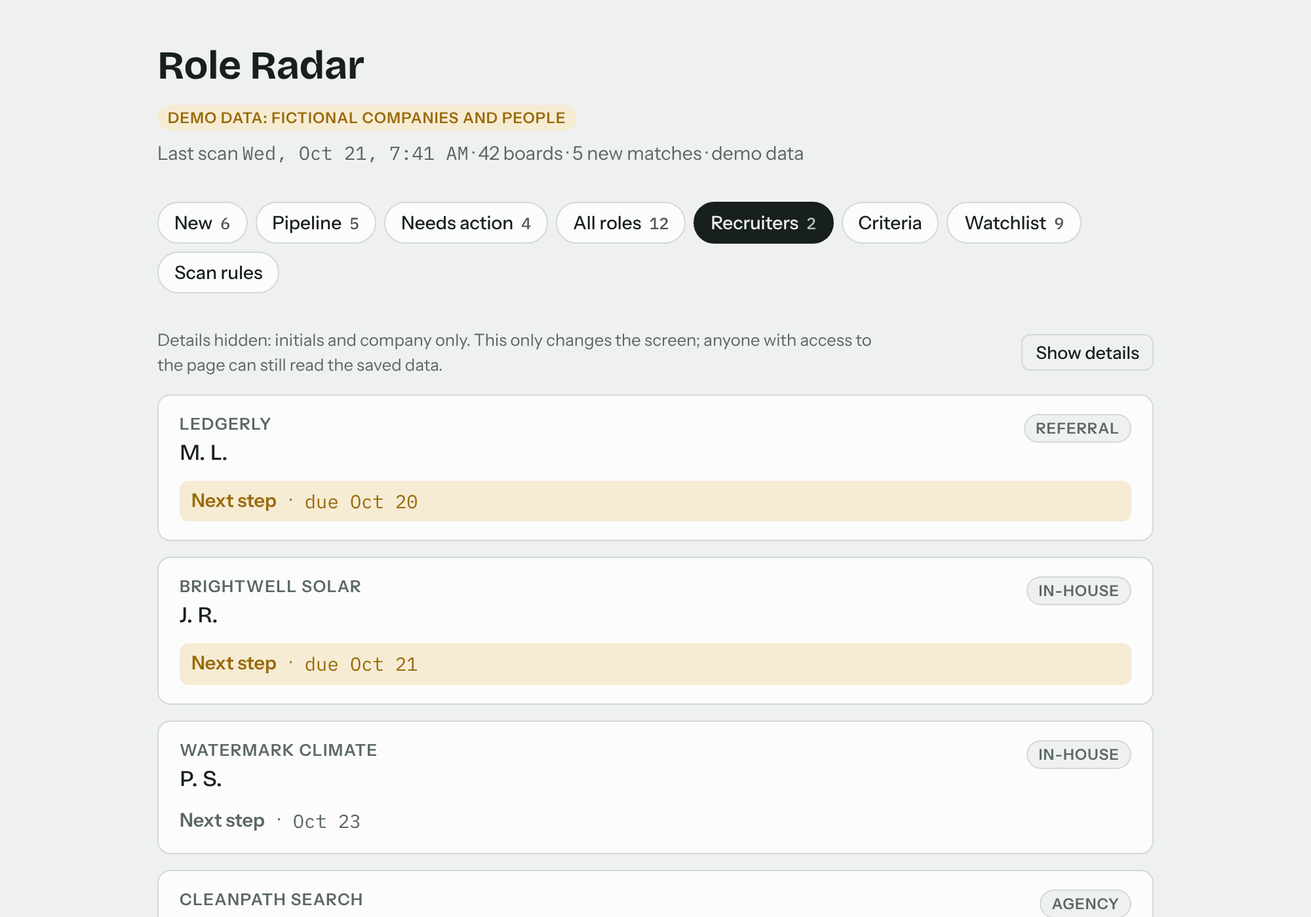
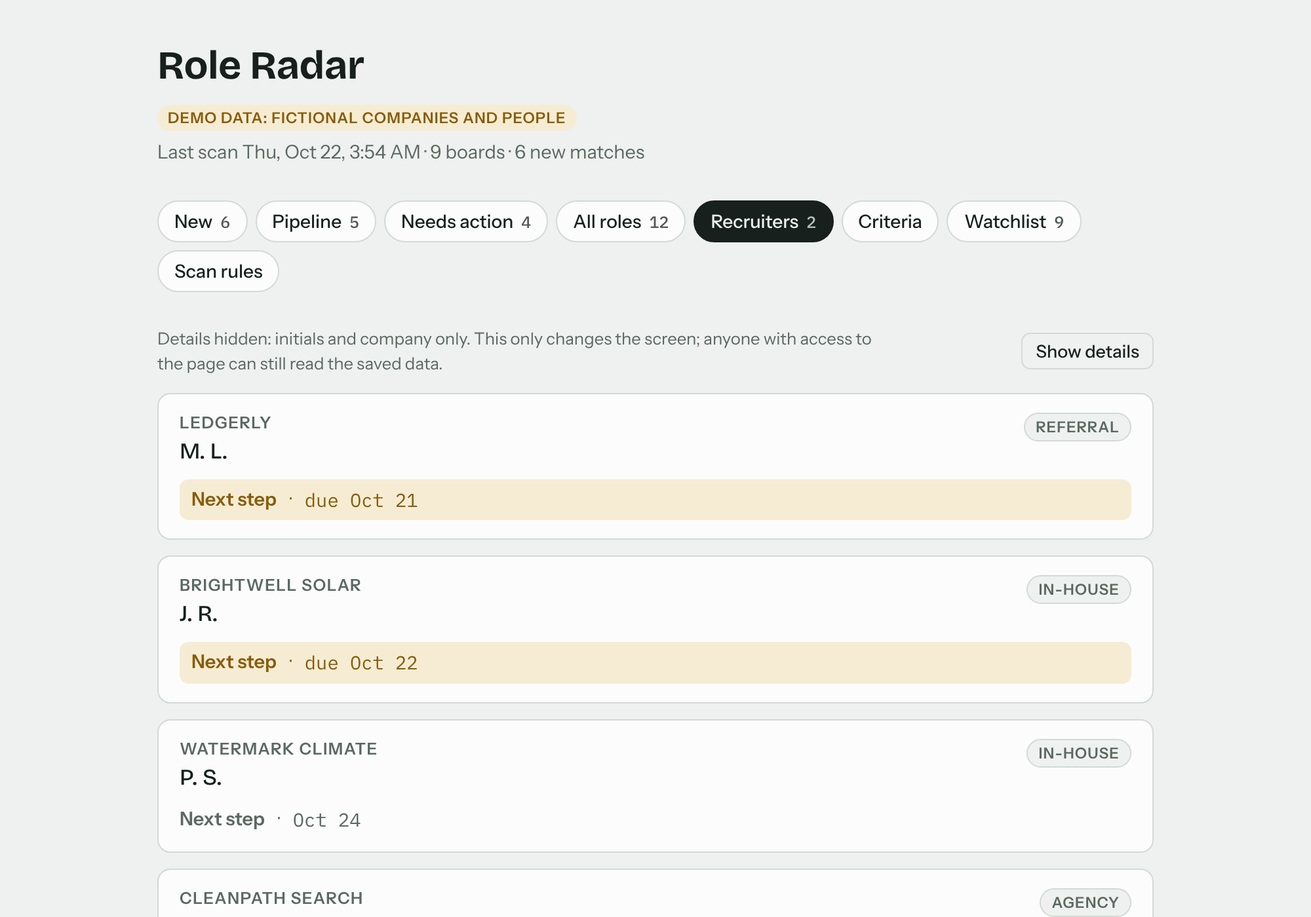
Recruiter-ready P2 polish: plain labels, folded filters, landmarks, inlined js-yaml, README
RR-P2-2 to RR-P2-9; README screenshots regenerated.

Claude-Session: https://claude.ai/code/session_01C9o7XbtX1RqBYGxEu4hpN9

diff --git a/app/role-radar.html b/app/role-radar.html
@@ -26,10 +26,10 @@ header{display:grid;gap:6px}
 h1{font-family:var(--f-display);font-weight:700;font-size:1.9rem;letter-spacing:-.01em;margin:0;text-wrap:balance}
 .sub{color:var(--muted);font-size:.9rem;margin:0}
 .mono{font-family:var(--f-mono);font-variant-numeric:tabular-nums}
-nav{display:flex;gap:6px;flex-wrap:wrap;position:sticky;top:env(safe-area-inset-top,0px);background:var(--bg);padding-block:8px;z-index:2}
-nav button{font:500 .88rem var(--f-body);border:1px solid var(--line);background:var(--surface);color:var(--ink);border-radius:999px;padding:6px 12px;cursor:pointer;display:flex;gap:6px;align-items:center}
-nav button[aria-selected="true"]{background:var(--ink);color:var(--bg);border-color:var(--ink)}
-nav .n{font-family:var(--f-mono);font-size:.78rem;opacity:.75}
+#tabs{display:flex;gap:6px;flex-wrap:wrap;position:sticky;top:env(safe-area-inset-top,0px);background:var(--bg);padding-block:8px;z-index:2}
+#tabs button{font:500 .88rem var(--f-body);border:1px solid var(--line);background:var(--surface);color:var(--ink);border-radius:999px;padding:6px 12px;cursor:pointer;display:flex;gap:6px;align-items:center}
+#tabs button[aria-selected="true"]{background:var(--ink);color:var(--bg);border-color:var(--ink)}
+#tabs .n{font-family:var(--f-mono);font-size:.78rem;opacity:.75}
 button:focus-visible,input:focus-visible,select:focus-visible,textarea:focus-visible,a:focus-visible{outline:2px solid var(--accent);outline-offset:2px}
 .list{display:grid;gap:12px}
 .job{background:var(--surface);border:1px solid var(--line);border-radius:10px;padding:14px 16px;display:grid;gap:8px;min-width:0}
@@ -90,8 +90,9 @@ dialog .row2{display:flex;gap:8px;justify-content:flex-end;margin-top:10px;flex-
 .fbar .fields{grid-template-columns:repeat(auto-fit,minmax(130px,1fr))}
 #ftoggle{display:none}
 @media (max-width:600px){#ftoggle{display:inline-flex}.fbar:not(.open) .fields{display:none}}
+.showcase-mode #ftoggle{display:inline-flex}.showcase-mode .fbar:not(.open) .fields{display:none}
 /* Touch: every control at least 44px tall. */
-@media (max-width:600px), (pointer:coarse){nav button,.btn,button,select,input:not([type=checkbox]):not([type=radio]){min-height:44px}a.btn{display:inline-flex;align-items:center}summary{padding-block:14px}}
+@media (max-width:600px), (pointer:coarse){#tabs button,.btn,button,select,input:not([type=checkbox]):not([type=radio]){min-height:44px}a.btn{display:inline-flex;align-items:center}summary{padding-block:14px}}
 .fbar .foot{display:flex;justify-content:space-between;align-items:center;gap:10px;flex-wrap:wrap;font-size:.82rem;color:var(--muted)}
 .linkbtn{font:500 .82rem var(--f-body);background:none;border:0;color:var(--accent);cursor:pointer;padding:0}
 .dates{display:flex;flex-wrap:wrap;gap:2px 12px;font-size:.8rem;color:var(--muted)}
@@ -116,7 +117,8 @@ details.more form{display:grid;gap:10px;padding-top:10px}
 .conflict{background:var(--warn-soft);color:var(--warn);border:1px solid var(--warn)}
 .crit{display:grid;gap:14px}
 .ccard{background:var(--surface);border:1px solid var(--line);border-radius:10px;padding:14px 16px;display:grid;gap:10px;min-width:0}
-.ccard h3{font-family:var(--f-display);font-weight:500;font-size:1.05rem;margin:0}
+.main{display:grid;gap:18px}
+.ccard h2{font-family:var(--f-display);font-weight:500;font-size:1.05rem;margin:0}
 .kv{display:grid;grid-template-columns:repeat(auto-fit,minmax(140px,1fr));gap:10px}
 .kv div{display:grid;gap:2px}.kv small{color:var(--muted);font-size:.78rem}.kv b{font-family:var(--f-mono);font-weight:500;font-size:.95rem}
 .sec{display:grid;grid-template-columns:minmax(0,1fr) auto;gap:4px 12px;align-items:center;padding:6px 0;border-bottom:1px solid var(--line)}
@@ -170,9 +172,11 @@ details.more form{display:grid;gap:10px;padding-top:10px}
     <p class="sub" id="scanLine">Remote Senior and Staff PM roles from company boards, ZipRecruiter, Himalayas and job alerts, checked every weekday morning.</p>
   </header>
 
-  <nav role="tablist" id="tabs"></nav>
+  <main class="main">
+  <div role="tablist" id="tabs" aria-label="Sections"></div>
 
   <section id="view" aria-live="polite"></section>
+  </main>
 </div>
 <div class="toast" id="toast" hidden></div>
 <dialog id="applyDlg" aria-labelledby="applyTitle">
@@ -273,7 +277,7 @@ function renderTabs(){
 function renderScan(){
   if(!scan){ $("#scanLine").textContent="Remote Senior and Staff PM roles from company boards, ZipRecruiter, Himalayas and job alerts, checked every weekday morning. No scan has run yet."; return;}
   const when=scan.lastRun?new Date(scan.lastRun).toLocaleString(undefined,{weekday:"short",month:"short",day:"numeric",hour:"numeric",minute:"2-digit"}):"";
-  $("#scanLine").innerHTML=`Last scan <span class="mono">${esc(when)}</span> · ${esc(scan.boardsChecked??"?")} boards · ${esc(scan.newMatches??0)} new matches${scan.note?` · ${esc(scan.note)}`:""}`;
+  $("#scanLine").innerHTML=`Last scan ${esc(when)} · ${esc(scan.boardsChecked??"?")} boards · ${esc(scan.newMatches??0)} new matches${scan.note?` · ${esc(scan.note)}`:""}`;
 }
 
 function datesLine(j){
@@ -283,7 +287,8 @@ function datesLine(j){
   if(j.viewedAt) p.push(`Viewed <b>${fmtDate(j.viewedAt)}</b>`);
   if(j.appliedAt) p.push(`Applied <b>${fmtDate(j.appliedAt)}</b>`);
   if(j.followUpDue&&st(j)==="applied"){const due=j.followUpDue<=today(); p.push(`<span class="${due?"due":""}">Follow up <b>${fmtDate(j.followUpDue)}</b></span>`);}
-  if(j.statusAt&&!INBOX.includes(st(j))) p.push(`${esc(STATUS_LABEL[st(j)]||st(j))} since <b>${fmtDate(j.statusAt)}</b>`);
+  const shownAt={viewed:j.viewedAt,applied:j.appliedAt}[st(j)];
+  if(j.statusAt&&!INBOX.includes(st(j))&&!(shownAt&&fmtDate(shownAt)===fmtDate(j.statusAt))) p.push(`${esc(STATUS_LABEL[st(j)]||st(j))} since <b>${fmtDate(j.statusAt)}</b>`);
   return p.length?`<div class="dates">${p.join("")}</div>`:"";
 }
 // How the criteria arrive at this role's score, using the same rules as the scan.
@@ -306,6 +311,8 @@ function fitRows(j){
   return `<div class="fitr" aria-label="Fit ratings">${row("Values",f.values)}${row("Culture",f.culture)}</div>`;
 }
 function rateMatch(want,got){ if(!want) return true; if(want==="good+") return got==="great"||got==="good"; return got===want; }
+const SRC_NAMES={greenhouse:"Greenhouse",ashby:"Ashby",lever:"Lever",ziprecruiter:"ZipRecruiter",himalayas:"Himalayas",climatebase:"Climatebase",alert:"Job alert",gmail:"Gmail",manual:"Added by hand"};
+const srcName=s=>SRC_NAMES[s]||s;
 function isSampleUrl(u){ if(!window.__RR_DEMO__||!u) return false; try{ return /(^|\.)example\.(com|org|net)$/.test(new URL(u).hostname); }catch(_){ return false; } }
 function jobCard(j){
   const id=esc(j._id), s=st(j), fit=(j.fit||"").toLowerCase(), resumeUrl=safeUrl(j.resumeUrl);
@@ -329,7 +336,7 @@ function jobCard(j){
     <div class="meta">
       ${j.location?`<span>${esc(j.location)}</span>`:""}
       ${j.comp?`<span class="mono">${esc(j.comp)}</span>`:""}
-      <span>${esc(j.source||j.ats||"")}</span>
+      <span>${esc(srcName(j.source||j.ats||""))}</span>
       ${laneChip}
       ${j.sector?`<span class="chip lane">${esc(j.sector)}</span>`:""}
     </div>
@@ -374,7 +381,7 @@ function jobCard(j){
 function opts(list,cur,all){return `<option value="">${all}</option>`+list.map(([v,l])=>`<option value="${esc(v)}"${v===cur?" selected":""}>${esc(l)}</option>`).join("");}
 function filterBar(){
   const statusList=(tab==="inbox"?STATUSES.filter(([v])=>INBOX.includes(v)):tab==="pipeline"?STATUSES.filter(([v])=>PIPE.includes(v)):STATUSES);
-  const sources=[...new Set(jobs.map(j=>j.source||j.ats).filter(Boolean))].sort().map(s=>[s,s]);
+  const sources=[...new Set(jobs.map(j=>j.source||j.ats).filter(Boolean))].sort().map(s=>[s,srcName(s)]);
   const tags=[...new Set(jobs.flatMap(tagsOf))].sort().map(t=>[t,t]);
   const active=["q","status","lane","fit","values","culture","source","tag","found","conflict"].filter(k=>view[k]).length;
   const nf=active-(view.q?1:0);
@@ -471,7 +478,7 @@ function boardHealth(){
   const src=cv.sources&&typeof cv.sources==="object"?Object.entries(cv.sources):[];
   const srcLabel={ziprecruiter:"ZipRecruiter",gmail:"Gmail",himalayas:"Himalayas",climatebase:"Climatebase"};
   return `<div class="health${low?" low":""}" role="status">
-    <p class="sum">Boards: <b>${n(cv.read)}/${n(cv.attempted)}</b> read${pt?` (solar/climate <b>${pr}/${pt}</b>)`:""}${n(cv.partial)?` · ${n(cv.partial)} partial`:""}${when?` · last run <span class="mono">${esc(when)}</span>`:""}${mode?` · mode ${esc(mode)}`:""}</p>
+    <p class="sum">Boards: <b>${n(cv.read)}/${n(cv.attempted)}</b> read${pt?` (solar/climate <b>${pr}/${pt}</b>)`:""}${n(cv.partial)?` · ${n(cv.partial)} partial`:""}${when?` · last run ${esc(when)}`:""}${mode?` · mode ${esc(mode)}`:""}</p>
     ${low?`<p class="sum" style="color:var(--warn)">Priority boards under 90% read. Some solar and climate roles may be missing from this run.</p>`:""}
     ${failed.length?`<div class="chips">Failed${failed.map(f=>`<span class="hchip bad" title="${esc(f.error||"")}">${esc(f.name)}</span>`).join("")}</div>`:""}
     ${partial.length?`<div class="chips">Partial${partial.map(x=>`<span class="hchip warn">${esc(x)}</span>`).join("")}</div>`:""}
@@ -503,7 +510,7 @@ function renderFilters(){
   const f=filters||{};
   const v=k=>esc(Array.isArray(f[k])?f[k].join(", "):(f[k]??""));
   return `<form class="filters" id="filtForm">
-    <p class="sub" style="margin:0">Titles, location, comp, sectors and excludes now live on the <button class="linkbtn" type="button" data-tab="criteria">Criteria</button> tab.</p>
+    <p class="sub" style="margin:0">Titles, location, comp, sectors and excludes are set on the <button class="linkbtn" type="button" data-tab="criteria">Criteria</button> tab.</p>
     <label for="fProd">Products you're building (one per line, as Name: keyword, keyword). Roles that overlap get a Conflict flag. Nothing is hidden or skipped.<textarea id="fProd" placeholder="My app: photo sharing, family albums">${esc(productsText())}</textarea></label>
     <button class="primary" type="submit">Save products</button></form>
   <form class="filters" id="cfgForm">
@@ -530,10 +537,10 @@ const listTxt=a=>Array.isArray(a)?a.map(x=>esc(x)).join(", "):esc(a??"—");
 function critSummary(d){
   if(!d) return "";
   const secs=(Array.isArray(d.sectors)?d.sectors:[]).slice().sort((a,b)=>(b.weight||0)-(a.weight||0));
-  const pip=w=>`<span class="pips w${esc(w)}" aria-label="weight ${esc(w)} of 3">${[1,2,3].map(i=>`<i class="${i<=w?"on":""}"></i>`).join("")}</span>`;
+  const pip=w=>`<span class="pips w${esc(w)}" role="img" aria-label="weight ${esc(w)} of 3">${[1,2,3].map(i=>`<i class="${i<=w?"on":""}"></i>`).join("")}</span>`;
   const hx=d.hard_exclude||{}, xs=[...(hx.companies||[]),...(hx.business_models||[])];
   const r=d.role||{}, w=d.work||{}, c=d.comp||{}, sc=d.scoring||{};
-  return `<div class="ccard"><h3>At a glance</h3><div class="kv">
+  return `<div class="ccard"><h2>At a glance</h2><div class="kv">
       <div><small>Level</small><b>${listTxt(r.levels)}</b></div>
       <div><small>Work</small><b>${esc(String(w.remote||"").replace(/_/g," "))}</b></div>
       ${w.home_state?`<div><small>Home state</small><b>${esc(w.home_state)}${w.planned_move&&w.planned_move.state?` → ${esc(w.planned_move.state)}${w.planned_move.when?` (${esc(w.planned_move.when)})`:""}`:""}</b></div>`:""}
@@ -542,9 +549,9 @@ function critSummary(d){
       <div><small>Min score to add</small><b>${esc(sc.min_score_to_add??"—")}</b></div>
       <div><small>Digest size</small><b>${esc(sc.digest_max_items??"—")}</b></div>
     </div></div>
-    <div class="ccard"><h3>Sector weights</h3><div>${secs.map(s=>`<div class="sec"><span class="lbl">${esc(s.label||s.id)}</span>${pip(Number(s.weight)||0)}${Array.isArray(s.examples)&&s.examples.length?`<span class="ex">${listTxt(s.examples.slice(0,6))}</span>`:""}</div>`).join("")||`<span class="hint">No sectors yet.</span>`}</div></div>
-    ${xs.length?`<div class="ccard"><h3>Never show</h3><div class="tags">${xs.map(x=>`<span class="xchip">${esc(x)}</span>`).join("")}</div></div>`:""}
-    <div class="ccard"><h3>Scoring</h3><p class="formula">sector  = weight × 15        (0–45)
+    <div class="ccard"><h2>Sector weights</h2><div>${secs.map(s=>`<div class="sec"><span class="lbl">${esc(s.label||s.id)}</span>${pip(Number(s.weight)||0)}${Array.isArray(s.examples)&&s.examples.length?`<span class="ex">${listTxt(s.examples.slice(0,6))}</span>`:""}</div>`).join("")||`<span class="hint">No sectors yet.</span>`}</div></div>
+    ${xs.length?`<div class="ccard"><h2>Never show</h2><div class="tags">${xs.map(x=>`<span class="xchip">${esc(x)}</span>`).join("")}</div></div>`:""}
+    <div class="ccard"><h2>Scoring</h2><p class="formula">sector  = weight × 15        (0–45)
 fit     = strong 35 · maybe 20 · stretch 5
 culture = +10 good signals, −10 per red flag
 comp    = +10 if the range reaches ${money(c.stretch_target_usd)}</p></div>
@@ -555,7 +562,7 @@ function fitCard(d){
   const vw=(d.values_fit&&d.values_fit.by_weight)||{3:"great",2:"good",1:"neutral",0:"no"};
   if(!checks.length&&!d.values_fit) return "";
   const badge=r=>`<span class="rate r-${esc(r)}">${esc(RATE_LABEL[r]||r)}</span>`;
-  return `<div class="ccard"><h3>Fit ratings</h3>
+  return `<div class="ccard"><h2>Fit ratings</h2>
     <p class="sub" style="margin:0">Two badges on every role. They explain a role and never change its score.</p>
     <div class="legend"><small>Values by sector weight</small>${[3,2,1,0].map(w=>`<span>${badge(vw[w]||"no")} weight ${w}</span>`).join("")}</div>
     <div class="legend"><small>Culture by total points</small><span>${badge("great")} ${esc(b.great)}+</span><span>${badge("good")} ${esc(b.good)}+</span><span>${badge("maybe")} ${esc(b.maybe)}+</span><span>${badge("no")} below ${esc(b.maybe)}</span></div>
@@ -672,15 +679,15 @@ function renderCriteria(){
   const when=criteria&&criteria.updatedAt?new Date(criteria.updatedAt).toLocaleString(undefined,{month:"short",day:"numeric",hour:"numeric",minute:"2-digit"}):"";
   if(!text) return `<div class="empty"><strong>No criteria yet</strong><span>Once a criteria spec is saved, the morning scan reads it before every run.</span></div>`;
   return `<div class="crit">${critSummary(p.data)}
-    <form class="ccard" id="critForm"><h3>criteria.yaml</h3>
-      <p class="sub" style="margin:0">The scan reads this before every run. Change a weight, add a company to <span class="mono">hard_exclude</span>, or move the comp floor, then save.${when?` Last saved <span class="mono">${esc(when)}</span>.`:""}</p>
+    <form class="ccard" id="critForm"><h2>criteria.yaml</h2>
+      <p class="sub" style="margin:0">The scan reads this before every run. Change a weight, add a company to <span class="mono">hard_exclude</span>, or move the comp floor, then save.${when?` Last saved ${esc(when)}.`:""}</p>
       ${critErr||p.err?`<p class="err">${esc(critErr||p.err)}</p>`:""}
       ${!window.jsyaml?`<p class="err">The YAML reader didn't load, so the summary and preview are off. You can still edit and save.</p>`:""}
       <label for="critText" class="sr" style="position:absolute;left:-9999px">Criteria YAML</label>
       <textarea id="critText" class="code" spellcheck="false" autocapitalize="off" autocomplete="off">${esc(text)}</textarea>
       <div class="ctl"><button class="primary" type="submit">Save criteria</button>${critDraft!==null?`<button class="btn" type="button" id="critReset">Discard changes</button>`:""}</div>
     </form>
-    <div class="ccard"><h3>Digest preview</h3><p class="sub" style="margin:0">How tomorrow's digest would rank the roles in New with the criteria above. Edit a weight and watch it change.</p><div id="digestPreview">${digestPreview(p.data)}</div></div></div>`;
+    <div class="ccard"><h2>Digest preview</h2><p class="sub" style="margin:0">How tomorrow's digest would rank the roles in New with the criteria above. Edit a weight and watch it change.</p><div id="digestPreview">${digestPreview(p.data)}</div></div></div>`;
 }
 function digestPreview(spec){
   if(!SC||!spec) return `<p class="hint">Preview needs a valid spec.</p>`;
@@ -860,7 +867,7 @@ document.addEventListener("keydown",e=>{
 });
 
 if(window.__RR_DEMO__) $("#demoNote").hidden=false;
-if(window.__RR_SHOWCASE__){ $("#showcase").hidden=false; $("#lede").hidden=false; }
+if(window.__RR_SHOWCASE__){ $("#showcase").hidden=false; $("#lede").hidden=false; document.body.classList.add("showcase-mode"); }
 render();
 (async()=>{
   Promise.resolve(window.claude?.use?.("mcp")).then(m=>{mcp=m||null; mcpState=m?"ready":"none";},()=>{mcpState="none";}).then(()=>{ if(tab==="people") render(); });

diff --git a/docs/reviews/2026-10-22-recruiter-ready.md b/docs/reviews/2026-10-22-recruiter-ready.md
@@ -56,15 +56,18 @@ P0 blocks showing it, P1 hurts the impression, P2 polish. Owner "here" = this re
 | RR-P1-6 | P1 | here | Phone, all tabs | Tap targets under 44px: tabs 32px, Save/Skip/Open posting 28px, "Filters and sort" 28px, inputs 34px | Below 600px (and on coarse pointers) buttons, tabs, selects and inputs get min-height 44px | fixed (round 2) |
 | RR-P1-7 | P1 | intake | Portfolio Role Radar page | "Changes you make stay in your browser" but the demo resets on reload | "Try anything: the demo resets when you reload." | intake |
 | RR-P2-1 | P2 | here | Every card (public) | "Every application is my own call, made by hand." repeats on all 12 cards | Say it once in the intro lede; drop it from cards | fixed (round 1) |
-| RR-P2-2 | P2 | here | Header scan line | Monospace date in a sans sentence looks like a glitch; "demo data" said twice (badge and scan line) | Same font for the date; drop the scan-line "demo data" note in the demo seed | open |
-| RR-P2-3 | P2 | here | Every card | Raw source names in lower case ("greenhouse", "ziprecruiter", "alert") read as debug output | Show "Greenhouse", "ZipRecruiter", "Job alert", "Added by hand" | open |
-| RR-P2-4 | P2 | here | Laptop, list tabs | First laptop screen is 10 filter dropdowns before the first role | Public demo: fold filters behind "Filters and sort" at every width | open |
-| RR-P2-5 | P2 | here | All tabs | No `<main>` landmark; sector-weight pips use `aria-label` on a plain span (ARIA 1.2 prohibited); Criteria card headings skip from h1 to h3 | Wrap the view in `<main>`, give pips `role="img"`, use h2 | open |
-| RR-P2-6 | P2 | here | Scan rules | "now live on the Criteria tab" is changelog wording | "Titles, location, comp, sectors and excludes are set on the Criteria tab." | open |
-| RR-P2-7 | P2 | here | Pipeline cards | "Applied Oct 13 · … · Applied since Oct 13" repeats the same date | Skip "<status> since" when it equals the date already shown | open |
-| RR-P2-8 | P2 | here | README | Signs off as "a senior product manager" while the portfolio and headline say Staff PM; no link to chaseholroyd.com at the top | Match the headline; add the portfolio link next to the demo link | open |
-| RR-P2-9 | P2 | here | Criteria (public demo) | js-yaml comes from cdnjs at runtime; if blocked, the Criteria preview degrades | Inline js-yaml (MIT) in the public build only | open |
+| RR-P2-2 | P2 | here | Header scan line | Monospace date in a sans sentence looks like a glitch; "demo data" said twice (badge and scan line) | Same font for the date; drop the scan-line "demo data" note in the demo seed | fixed (round 3) |
+| RR-P2-3 | P2 | here | Every card | Raw source names in lower case ("greenhouse", "ziprecruiter", "alert") read as debug output | Show "Greenhouse", "ZipRecruiter", "Job alert", "Added by hand" | fixed (round 3) |
+| RR-P2-4 | P2 | here | Laptop, list tabs | First laptop screen is 10 filter dropdowns before the first role | Public demo: fold filters behind "Filters and sort" at every width | fixed (round 3) |
+| RR-P2-5 | P2 | here | All tabs | No `<main>` landmark; sector-weight pips use `aria-label` on a plain span (ARIA 1.2 prohibited); Criteria card headings skip from h1 to h3 | Wrap the view in `<main>`, give pips `role="img"`, use h2 | fixed (round 3) |
+| RR-P2-6 | P2 | here | Scan rules | "now live on the Criteria tab" is changelog wording | "Titles, location, comp, sectors and excludes are set on the Criteria tab." | fixed (round 3) |
+| RR-P2-7 | P2 | here | Pipeline cards | "Applied Oct 13 · … · Applied since Oct 13" repeats the same date | Skip "<status> since" when it equals the date already shown | fixed (round 3) |
+| RR-P2-8 | P2 | here | README | Signs off as "a senior product manager" while the portfolio and headline say Staff PM; no link to chaseholroyd.com at the top | Match the headline; add the portfolio link next to the demo link | fixed (round 3) |
+| RR-P2-9 | P2 | here | Criteria (public demo) | js-yaml comes from cdnjs at runtime; if blocked, the Criteria preview degrades | Inline js-yaml (MIT) in the public build only | fixed (round 3) |
 | RR-P2-10 | P2 | intake | Portfolio Role Radar page | "4 sources" while the README and demo list five (boards, ZipRecruiter, Himalayas, Climatebase, email alerts); footer says "Charlotte, NC" | "5 sources"; location wording is Chase's call (Decisions to review) | intake |
+| RR-P2-11 | P2 | here | Every card | Two category chips per card (lane and sector), e.g. "Geospatial / clean energy" on a solar role, read as two answers to one question | Public demo: show the sector chip only; the lane stays in "Lane, tags, referral, notes" | open |
+| RR-P2-12 | P2 | here | Recruiters tab (`?full`) | Tab says "Recruiters 2" while five people are listed (the count is next steps due) | Count everyone, as the other tabs do | open |
+| RR-P2-13 | P2 | here | Criteria "At a glance" | Values in lower-case monospace ("fully remote us", "senior, staff, principal, lead") read like code | Body font, sentence case ("Fully remote, US") | open |
 
 ## Acceptance criteria (qa-tdd)
 - **RR-P0-1:** the public build shows a link to `https://chaseholroyd.com/role-radar.html` and the GitHub repo inside the first viewport at 390x844 and 1280x800; the lede text is visible; the live app build (no `__RR_PUBLIC__`) has neither.
@@ -98,3 +101,11 @@ P0 blocks showing it, P1 hurts the impression, P2 polish. Owner "here" = this re
 - Fixed RR-P1-6: under 600px or on touch screens, buttons, tabs, selects, inputs and disclosure rows are at least 44px tall (measured on every list tab).
 - Suites: 83/83 x3. No console errors, no sideways scroll. New issues: none.
 - Left: P0 2 (outside this repo), P1 1 (intake), P2 9 (7 here).
+
+### Round 3 (2026-10-22, 04:05-04:25 UTC), branch `claude/project-thread-tioah4-5`
+- Re-checked rounds 1-2 on the new shots (phone and laptop, light and dark): holding.
+- Fixed RR-P2-2 (one font in the scan line, criteria and watchlist sentences), RR-P2-3 (Greenhouse, ZipRecruiter, Job alert, Added by hand), RR-P2-4 (public demo folds filters at every width; first role in the first laptop screen), RR-P2-5 (`<main>` landmark, tablist outside a nav, `role="img"` on weight pips, Criteria cards use h2; axe now reports zero violations on every tab, light and dark, public and `?full`), RR-P2-6, RR-P2-7, RR-P2-8 (README links the live demo and portfolio, matches the Staff PM headline) and RR-P2-9 (js-yaml inlined in the public build; Criteria works with the CDN blocked).
+- README screenshots regenerated so they match the page (fit chips, 9 boards, sample postings).
+- Each new test failed on the round 2 code and passes now. Suites: 88/88 x3.
+- New this round: RR-P2-11, RR-P2-12, RR-P2-13.
+- Left: P0 2 (outside this repo), P1 1 (intake), P2 4 (3 here, 1 intake).

diff --git a/HANDOFF.md b/HANDOFF.md
@@ -18,6 +18,7 @@ The repo now uses the studio planning IDs (milestone `M1`, task `M1.1`, step `M1
 
 ## Portfolio / public presence
 _Updated 2026-10-22._
+- 2026-10-22: README screenshots regenerated ("Strong fit" chips, 9 boards, "Sample posting"); if the portfolio reuses any of them, refresh there too.
 - 2026-10-22: the public demo now links back to https://chaseholroyd.com/role-radar.html and the portfolio home, with a one-line intro (public build only).
 - 2026-10-22 recruiter-ready review: the portfolio's "Try the demo" still opens the old `/demo/role-radar/` snapshot (P0, intake to Product Studio); https on chaseholroyd.com looked like it served a `*.github.io` certificate from this session (unconfirmed, Chase to check on a phone).
 - **Portfolio page:** https://chaseholroyd.com/role-radar.html (source: `tools/build.py` in the portfolio repo).
@@ -30,6 +31,7 @@ _Updated 2026-10-22._
 - **Keep in sync:** when a change here alters what the portfolio page or demo shows (features, numbers, screenshots, privacy claims), tell the portfolio thread ("Portfolio research and upgrade plan") or update the page in the portfolio repo (`tools/build.py`). Any portfolio change that touches this product adds a dated line here.
 
 ## Done
+- 2026-10-22 recruiter-ready round 3: P2 polish (plain source names, folded filters on the public demo, one font in sentences, landmarks and headings with zero axe violations, js-yaml inlined in the public build, README links the live demo), README screenshots regenerated. 88 tests.
 - 2026-10-22 recruiter-ready round 2: demo "Sample posting" instead of example.com links, "Strong fit" chip wording, header numbers match the Watchlist, light-theme contrast at 4.5:1+, 44px touch targets on phones (RR-P1-2 to P1-6). 83 tests.
 - 2026-10-22 recruiter-ready round 1: public demo gets a way back to chaseholroyd.com, a GitHub link and a one-line intro (RR-P0-1, RR-P2-1); adding a role, company or recruiter shows it right away (RR-P1-1). 78 tests.
 - 2026-10-22: synced studio agents from studio-agents PR #6 branch (`claude/project-thread-wvkxmq`, commit 7637b2a): ux-reviewer gains the visual pass, heuristic sweep and "showcase review" mode; positioning reads HANDOFF.md. The studio-only focus-coach and orchestrator agents are left out on purpose (they coach Chase's own schedule, not this product).

diff --git a/README.md b/README.md
@@ -2,6 +2,8 @@
 
 **A job search that runs itself every weekday morning.** Role Radar scans job boards, scores each new role against criteria written as code, and keeps every application, follow-up and recruiter in one place. I built it for my own search for a senior product role, and I use it every day.
 
+**[Try the live demo](https://chaseholroyd.com/role-radar/)** (sample data, no login) · [More of my work](https://chaseholroyd.com/)
+
 ![New roles, each with a score and the reason for it](docs/screenshots/new-roles.png)
 
 *All screenshots use fictional demo data.*
@@ -110,7 +112,7 @@ The demo runs the real page against an in-memory database ([`demo/mock-claude.js
 
 ---
 
-Built by Chase Holroyd, a senior product manager working in energy, fintech and AI, with Claude as the build partner.
+Built by Chase Holroyd, a staff product manager in pricing, payments and point-of-sale lending, with Claude as the build partner. More of my work is at [chaseholroyd.com](https://chaseholroyd.com/).
 
 ## License
 
